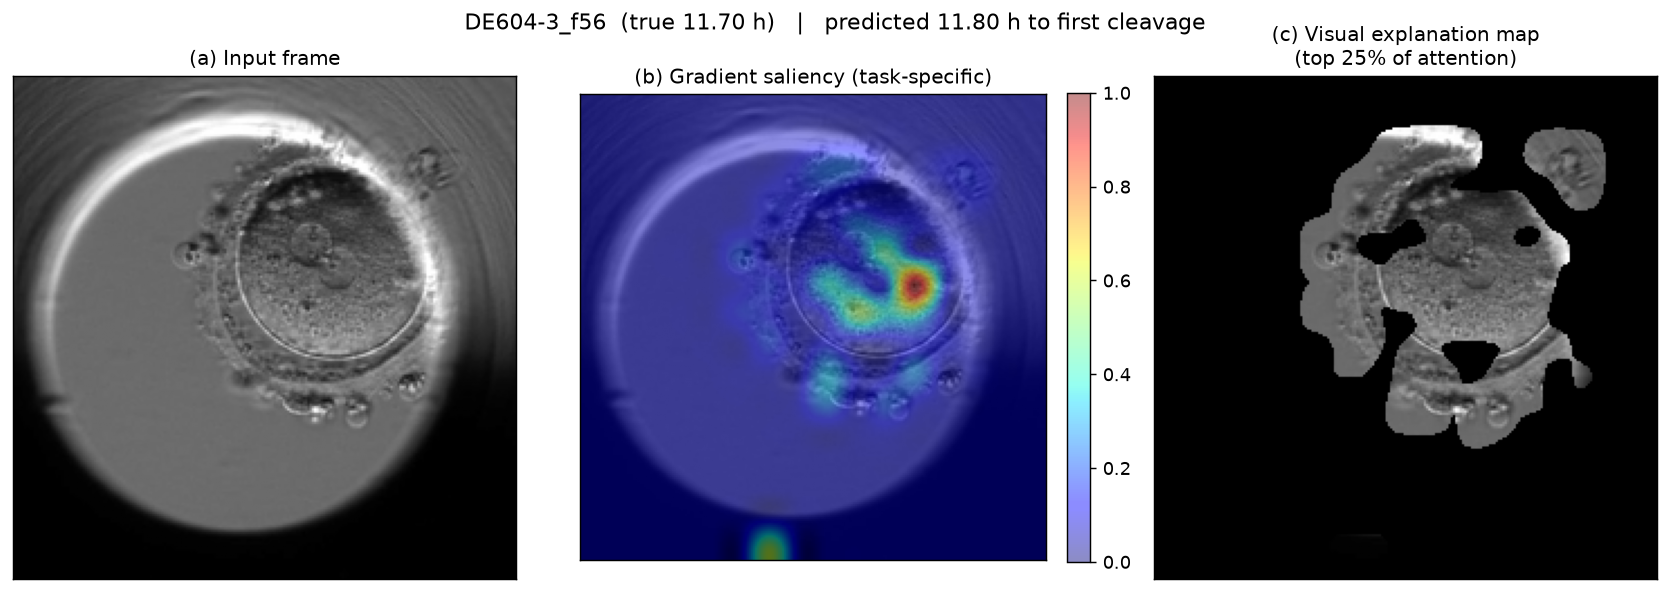
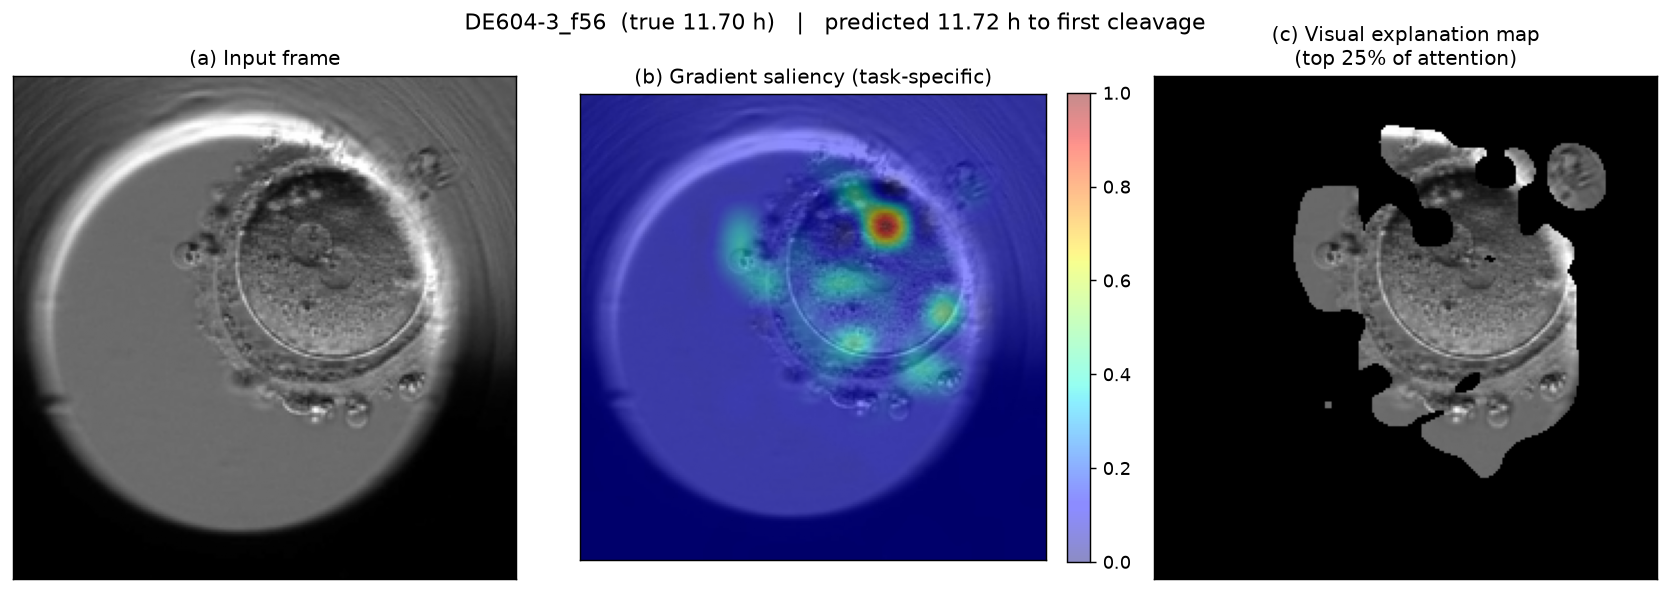
Remove the off-embryo saliency artifact by switching to DINOv2 registers
The figures showed a consistent bright blob on empty dish below the embryo.
Diagnosed rather than cropped:

- It is NOT a hidden timestamp. Regressing every bottom-strip pixel against
  elapsed time over 3,000 frames gives max |r| = 0.087, with zero pixels above
  0.5. Nothing in that region encodes time.
- It IS a high-norm artifact token. A plain DINOv2 ViT hijacks one
  low-information patch as global scratch space: median patch-token norm 50.1,
  maximum 509.8, exactly 1 token of 256 above twice the median (Darcet et al.
  2023, Vision Transformers Need Registers).

Retrained the trunk on vit_large_patch14_reg4_dinov2, which gives the network
four dedicated registers so it stops stealing a patch. Norm ratio 11.8x -> 1.4x,
zero tokens above threshold, and accuracy did not pay for it: 2.458 -> 2.439 h
per embryo, rho +0.970 -> +0.971.

Saliency now sits entirely on the zygote. The air bubble in the 41.5 h frame
draws no attention at all.

diff --git a/app/components/ExplanationGallery.tsx b/app/components/ExplanationGallery.tsx
@@ -24,16 +24,16 @@ import { useState } from "react";
 type Item = { file: string; embryo: string; trueH: number; predH: number };
 
 const ITEMS: Item[] = [
-  { file: "00_LK523-2_f66_gradient.png", embryo: "LK523-2", trueH: 0.1, predH: 1.88 },
-  { file: "01_PC758-2_f77_gradient.png", embryo: "PC758-2", trueH: 3.0, predH: 3.97 },
-  { file: "02_GE294-4_f62_gradient.png", embryo: "GE294-4", trueH: 5.8, predH: 7.27 },
-  { file: "03_PN636-1-6_f3_gradient.png", embryo: "PN636-1-6", trueH: 8.8, predH: 7.34 },
-  { file: "04_DE604-3_f56_gradient.png", embryo: "DE604-3", trueH: 11.7, predH: 11.8 },
-  { file: "05_DM1046-12_f27_gradient.png", embryo: "DM1046-12", trueH: 14.6, predH: 14.94 },
-  { file: "06_OJ319-6_f29_gradient.png", embryo: "OJ319-6", trueH: 17.6, predH: 18.5 },
-  { file: "07_RM126-6_f14_gradient.png", embryo: "RM126-6", trueH: 20.6, predH: 20.12 },
-  { file: "08_MA488-3_f12_gradient.png", embryo: "MA488-3", trueH: 23.9, predH: 25.33 },
-  { file: "09_RM855-3_f1_gradient.png", embryo: "RM855-3", trueH: 41.5, predH: 27.22 },
+  { file: "00_LK523-2_f66_gradient.png", embryo: "LK523-2", trueH: 0.1, predH: 2.81 },
+  { file: "01_PC758-2_f77_gradient.png", embryo: "PC758-2", trueH: 3.0, predH: 3.54 },
+  { file: "02_GE294-4_f62_gradient.png", embryo: "GE294-4", trueH: 5.8, predH: 6.13 },
+  { file: "03_PN636-1-6_f3_gradient.png", embryo: "PN636-1-6", trueH: 8.8, predH: 8.74 },
+  { file: "04_DE604-3_f56_gradient.png", embryo: "DE604-3", trueH: 11.7, predH: 11.72 },
+  { file: "05_DM1046-12_f27_gradient.png", embryo: "DM1046-12", trueH: 14.6, predH: 14.4 },
+  { file: "06_OJ319-6_f29_gradient.png", embryo: "OJ319-6", trueH: 17.6, predH: 17.77 },
+  { file: "07_RM126-6_f14_gradient.png", embryo: "RM126-6", trueH: 20.6, predH: 20.3 },
+  { file: "08_MA488-3_f12_gradient.png", embryo: "MA488-3", trueH: 23.9, predH: 24.31 },
+  { file: "09_RM855-3_f1_gradient.png", embryo: "RM855-3", trueH: 41.5, predH: 40.02 },
 ];
 
 export default function ExplanationGallery() {
@@ -66,7 +66,8 @@ export default function ExplanationGallery() {
         For each frame: the input, a saliency map of how strongly each region moves the
         predicted time, and the same frame with everything outside the top quarter of that
         map removed. The hot region sits on the zygote — usually on the pronuclei — and not
-        on the dish.
+        on the dish, the well wall, or on debris such as the air bubble in the 41.5 h
+        frame.
       </p>
 
       <div
@@ -149,6 +150,30 @@ export default function ExplanationGallery() {
         attention, which is free to compute and is what most published figures show,
         scored <strong>0.00</strong> against the same yardstick — so it is not shown here,
         because on this model it explains nothing.
+      </div>
+      <div
+        style={{
+          marginTop: 10,
+          padding: "12px 14px",
+          borderRadius: 9,
+          background: "#faf9f6",
+          border: "1px solid var(--border)",
+          fontSize: 11.5,
+          fontWeight: 600,
+          color: "#6b6b66",
+          lineHeight: 1.7,
+          maxWidth: "84ch",
+        }}
+      >
+        <strong style={{ color: "#3a3a36" }}>Why the backbone has register tokens.</strong>{" "}
+        An earlier version of these figures showed a bright blob on empty dish below the
+        embryo. It was not the model reading a hidden timestamp — nothing in that region
+        correlates with elapsed time (max |r| = 0.09 over 3,000 frames). It was a single
+        high-norm <em>artifact token</em>: a plain DINOv2 ViT hijacks one low-information
+        patch as global scratch space, giving it a norm <strong>11.8×</strong> the median.
+        Switching to the four-register variant, which exists precisely for this, dropped
+        that ratio to <strong>1.4×</strong> with no token above threshold — and cost no
+        accuracy.
       </div>
     </section>
   );
